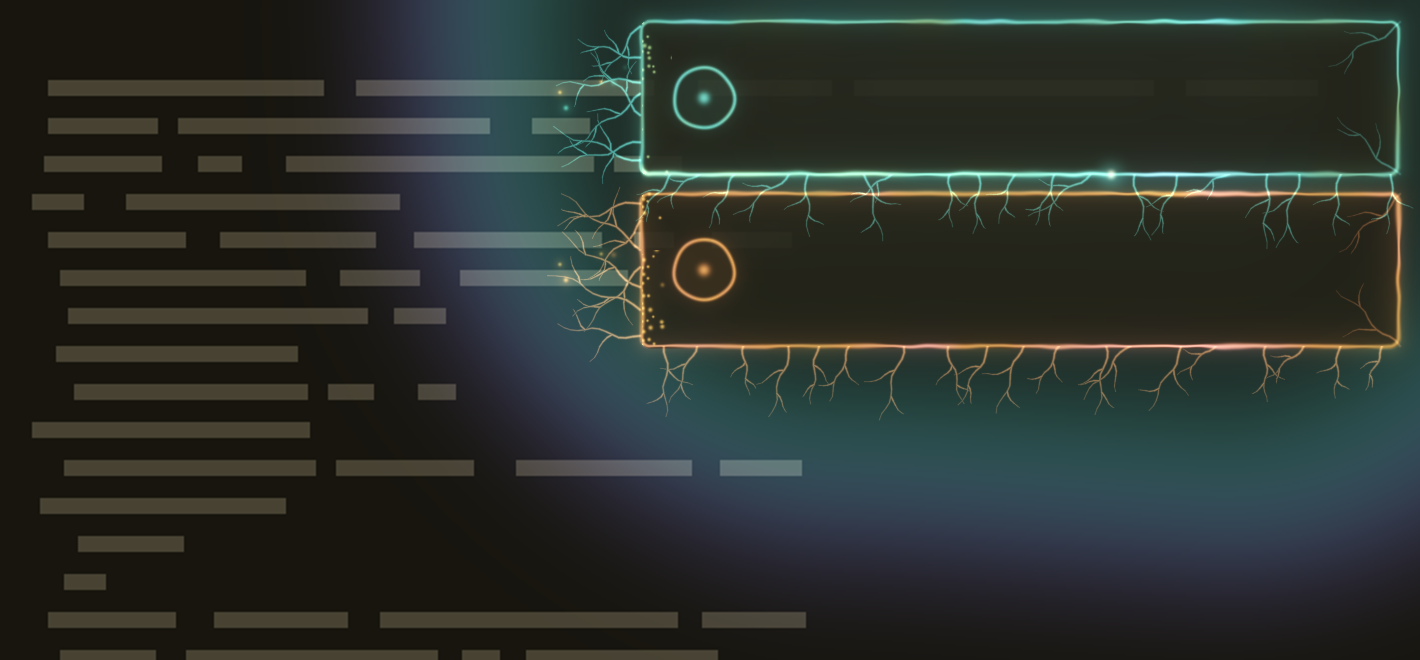
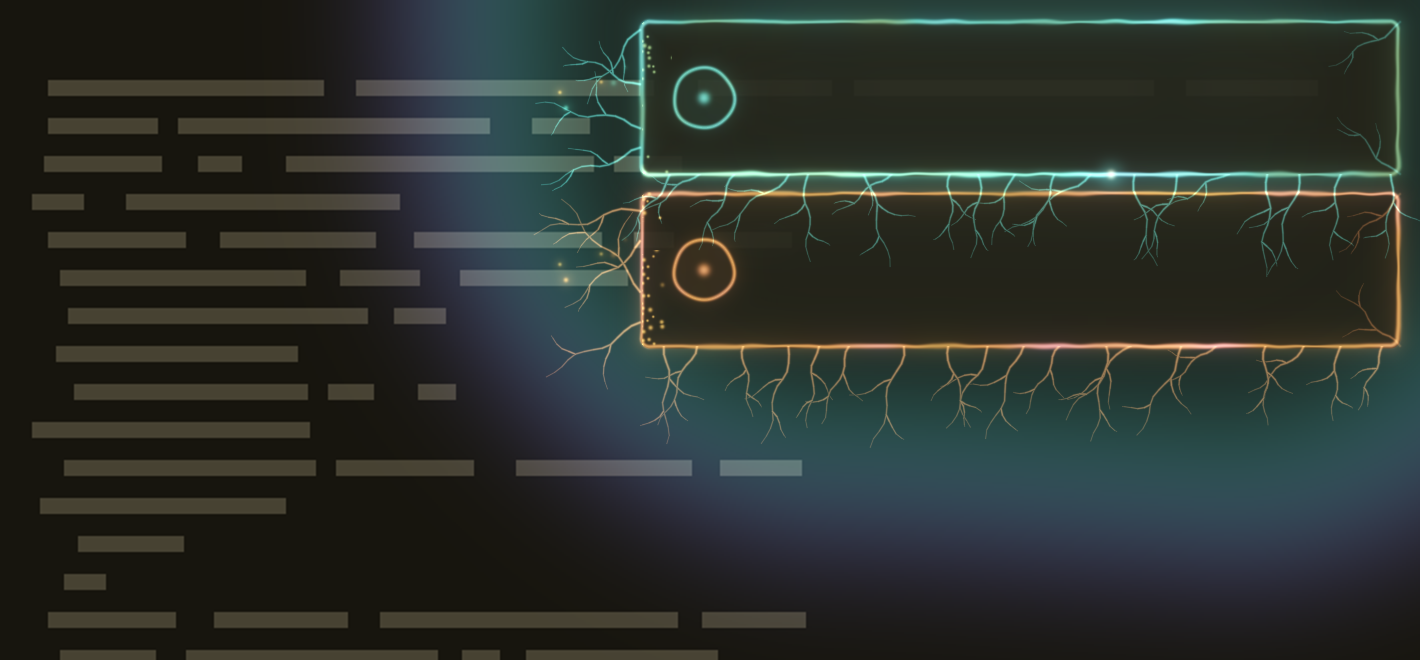
Growth: fewer, longer roots that grow over the toast's life
Left roots: one per 18 px instead of 10, and 1.0 to 1.5 times longer (bottom ones a little longer too). Growth is now
driven by how far through its life the toast is (1 - remaining, never decreasing; 8 s for a toast with no countdown): each
root starts at its own moment, finishes at its own (80 to 94% of the life, so the last is done just before the countdown
ends) and eases out, fast at first and slowing. ToastRim's overlay margin is 80 px for the longer roots.
Not tested beyond renders, at the user's request.

diff --git a/components/ToastRim.qml b/components/ToastRim.qml
@@ -20,13 +20,17 @@ Item {
   property real spores: 1
   // "blend" (the rim, toastrim.frag) or "growth" (toastgrowth.frag: a living outline, lichen, veins that grow out on arrival).
   property string look: "blend"
-  // Growth only: per toast, so no two grow alike; and how far its veins have reached (0 to 1, animated on arrival).
+  // Growth only: per toast, so no two grow alike; and how far through its life the toast is (0 to 1, never back), which the roots
+  // grow over: each starts and finishes at its own moment, the last just before the countdown ends. It follows `remaining`, so it
+  // freezes while the toast is hovered; an update restarts the countdown but the roots do not shrink. A toast that never
+  // expires (critical) is given a nominal eight seconds.
   property real seed: Math.random() * 100
-  property real growth: 1
+  property real growth: 0
+  onRemainingChanged: if (remaining >= 0) growth = Math.max(growth, 1 - remaining)
 
   property real energy: 1
   property real time: 0
-  readonly property real margin: 56    // the halo needs 20, the faint spores drifting off the left edge need 56
+  readonly property real margin: 80    // the halo needs 20, the faint spores 56, and the Growth look's roots up to about 70
 
   anchors.fill: target
   anchors.margins: -margin
@@ -46,21 +50,11 @@ Item {
     energy = 2.2
     igniteAnim.start()
     growth = 0
-    growAnim.restart()
+    if (remaining < 0) growAnim.restart()
   }
 
-  // The veins reach out over about a second and a half, a little after the rim lights (times `slowdown`).
-  SequentialAnimation {
-    id: growAnim
-    PauseAnimation { duration: Math.round(180 * root.slowdown) }
-    NumberAnimation { target: root; property: "growth"; to: 1; duration: Math.round(1500 * root.slowdown); easing.type: Easing.OutQuad }
-  }
-
-  SequentialAnimation {
-    id: igniteAnim
-    PauseAnimation { duration: Math.round(120 * root.slowdown) }
-    NumberAnimation { target: root; property: "energy"; to: 1; duration: Math.round(1100 * root.slowdown); easing.type: Easing.OutCubic }
-  }
+  // For a toast with no countdown: the roots grow over a nominal eight seconds (times `slowdown`).
+  NumberAnimation { id: growAnim; target: root; property: "growth"; from: 0; to: 1; duration: Math.round(8000 * root.slowdown) }
 
   // The slow drift of the colour, at a few frames a second: it only needs to be smooth, not fast.
   Timer {

diff --git a/test/rim-preview.py b/test/rim-preview.py
@@ -42,7 +42,7 @@ for c in cards:                                                     # the card b
     img = img * (1 - a[..., None]) + body * a[..., None]
 
 for c in cards:                                                     # the shader's output for each, over a margin
-    mx = 56 if float(SPORES) > 0 else 20          # the faint spores drift up to ~50 px out of the left edge
+    mx = 80 if (float(SPORES) > 0 or SHADER == 'toastgrowth') else 20   # the faint spores drift up to ~50 px out of the left edge, the roots further
     ox, oy = 320 - mx, max(c["y"] - mx, 0)
     ow, oh = 380 + 2 * mx, (c["y"] - oy) + 78 + mx
     env = dict(os.environ, EGL_PLATFORM="surfaceless", LIBGL_ALWAYS_SOFTWARE="1",

diff --git a/docs/design/README.md b/docs/design/README.md
@@ -61,13 +61,14 @@ mock-up C, whose wavy outline and ragged strip read as glitches:
 - **Lichen is a scatter of tiny dots**, jittered so it is not a grid, clustered in patches on the left edge inside the card,
   thinning inward and kept clear of the icon; not a ragged strip. (A denser, deeper version, creeping along the top and bottom
   too, was tried after the first live test and was too much and in the way: the user had meant the roots, below, not the lichen.)
-- **Roots**: fine curves with two side branches, **many of them along the whole left edge** (about one per 10 px of the card's
-  height, each with its own place, direction, length and moment of starting), reaching out into the free space on the left as
-  the toast arrives; those near the top lean down and those near the bottom lean up, so they stay in the card's own band and
-  cannot reach the toast below or the screen's edge. Fainter ones grow across the card from its right corners (the screen's
-  edge is there). The first version had one from each corner. **Roots along the bottom edge too** (about one per 20 px of its
-  width): down and leaning left, shorter, since the gap to the toast below is small; they pass behind it, and under the last
-  toast the screen is free.
+- **Roots**: fine curves with two side branches, along the left edge (about one per 18 px of the card's height) and the bottom edge
+  (about one per 20 px of its width), 1.0 to 1.5 times the first length on the left (up to about 65 px) and a little shorter below,
+  where the gap to the toast below is small (they pass behind it; under the last toast the screen is free). Those near the top
+  lean down and those near the bottom lean up, so they stay in the card's band. **They grow over the toast's whole life**, not
+  at arrival: each starts at its own moment (in the first fifth of the life) and finishes at its own (between 80% and 94% of it,
+  so the last is done shortly before the countdown completes), fast at first and slowing toward the end (`growth-stages.png`: 4%,
+  15%, 40%, 70% and 100% of the life). Fainter ones grow across the card from its right corners. The first version had one per
+  corner and grew in 1.5 s.
 - **The countdown is the bottom border itself, lit**: drawn from the same distance field and sway as the outline, so it lies
   exactly on it and the two read as one line (the first version ran 3 px above the border, which the user saw as two lines).
   Where there is time left the border is brighter and thicker, its thickness undulating along it like a vein; the part that has run

diff --git a/AGENTS.md b/AGENTS.md
@@ -249,7 +249,7 @@ Plan: the exit dissolves into spores, and a faint drift off a card. Both are bui
 
 `look=growth` in the fork's conf file (parsed by `parseLook`, `blend` otherwise) makes `ToastRim` load `shaders/toastgrowth.frag`
 instead of `toastrim.frag`; same overlay, same added-light output, same uniforms plus `seed` (random per toast) and `growth`
-(0 to 1, animated by `ToastRim` on arrival: 180 ms pause, 1.5 s, times `motion_slowdown`). Both shaders declare the **same uniform
+(0 to 1: how far through its life the toast is, from `1 - remaining` and never decreasing, so the roots grow over the whole life, each with its own start and finish, the last by 94%, via `rootReach` in the shader; a toast without a countdown, i.e. critical, animates it over 8 s times `motion_slowdown`). `ToastRim`'s margin is 80 px for the roots. Both shaders declare the **same uniform
 set** (the blend's `seed` and `growth` are unused) so `ToastRim`'s ShaderEffect feeds either; `shader-test.sh` and
 `growth-test.sh` both check that. What the design does and why (the mock-up's wavy outline and ragged strip read as glitches, so
 the outline stays straight and is alive instead; lichen is jittered dots; veins are curves with branches that cannot reach the
@@ -269,6 +269,10 @@ render where the border is alone. And dots larger than the 3x3 cell search are c
 previews zoomed. **The roots change was committed without running the growth tests** (the user asked not to run the full path every
 time): the vein checks in `test/growth-test.sh` were written for four veins and may need their thresholds revisited; run it and
 fix before releasing.
+
+**Roots, round 3 (2026-10-31):** left roots cut to one per 18 px, longer (scale 1.0 to 1.5), and the roots grow over the toast's life as above. Also
+committed **without running the tests** at the user's request: `test/growth-test.sh` treats `growth` as an arrival animation (growth 0.5 = half
+grown) and the vein regions assume the old lengths and the 30 px left margin of its overlay; expect to revisit it.
 
 ## Conventions
 

diff --git a/docs/runbooks/live-checklist.md b/docs/runbooks/live-checklist.md
@@ -176,10 +176,14 @@ flipping between the two with the same notifications. The design is `docs/design
 
 - [ ] with `look=growth`, toasts have a **living outline**: its thickness and colour vary slowly along its length, moss
       and teal, and a slow pulse of light travels round it; the outline is **straight**, not wavy
-- [ ] **many roots** (about one per 10 px of the card's height, each with side branches) grow out of the left edge when a toast
-      arrives (over about a second and a half), reaching into the free space; fainter veins grow across the card from its
-      right corners; **roots also hang from the bottom edge** (shorter, leaning left): under the last toast they hang free, and
-      under a toast with another below they should pass behind that one, not over it (say if they show on top of it)
+- [ ] **roots** (with side branches) hang from the left edge (about one per 18 px of height, so sparser than before) and the bottom
+      edge (one per 20 px), longer than before; those on the left are not denser than those below
+- [ ] they **grow over the toast's whole life**, not all at once: they start at different moments, are fast at first and slow
+      toward the end, and the last are **done slightly before the countdown line reaches the end** (it freezes with the countdown
+      while you hover; an update that restarts the countdown does not shrink them; a critical toast, which has no countdown,
+      grows them over about eight seconds)
+- [ ] fainter veins grow across the card from its right corners; none cross onto the toast below. Under a toast with another
+      below, the roots from its bottom edge pass **behind** that one, not over it (say if they show on top of it)
 - [ ] on the left edge, inside the card, a **scatter of tiny dots (lichen)** in patches, thinning inward and kept clear of
       the icon; some toasts have none, which is intended
 - [ ] the icon ring is very slightly irregular (it should read as organic, not as a lumpy circle)
